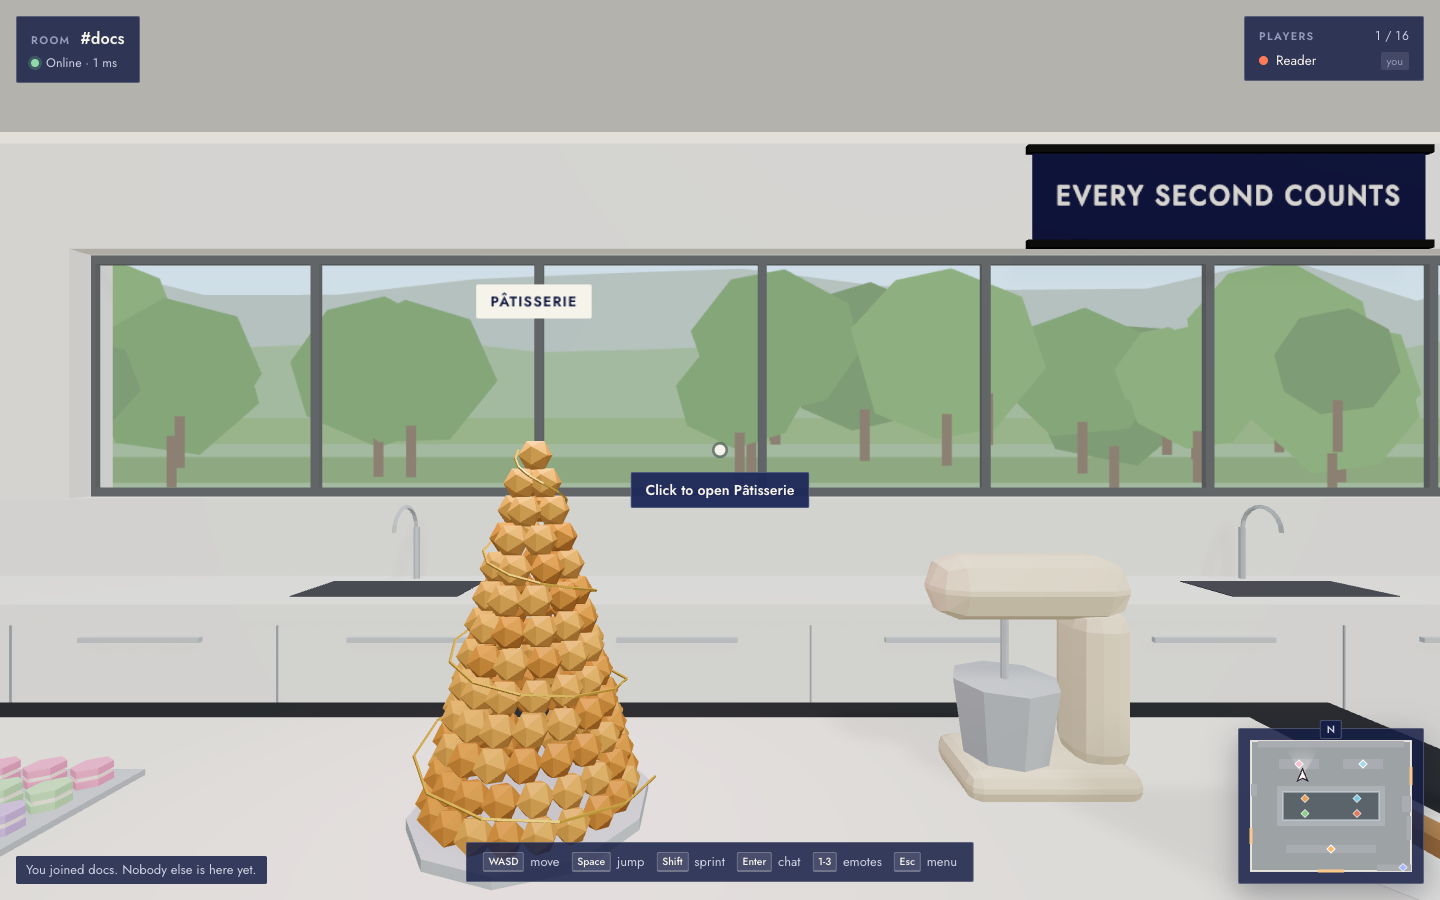
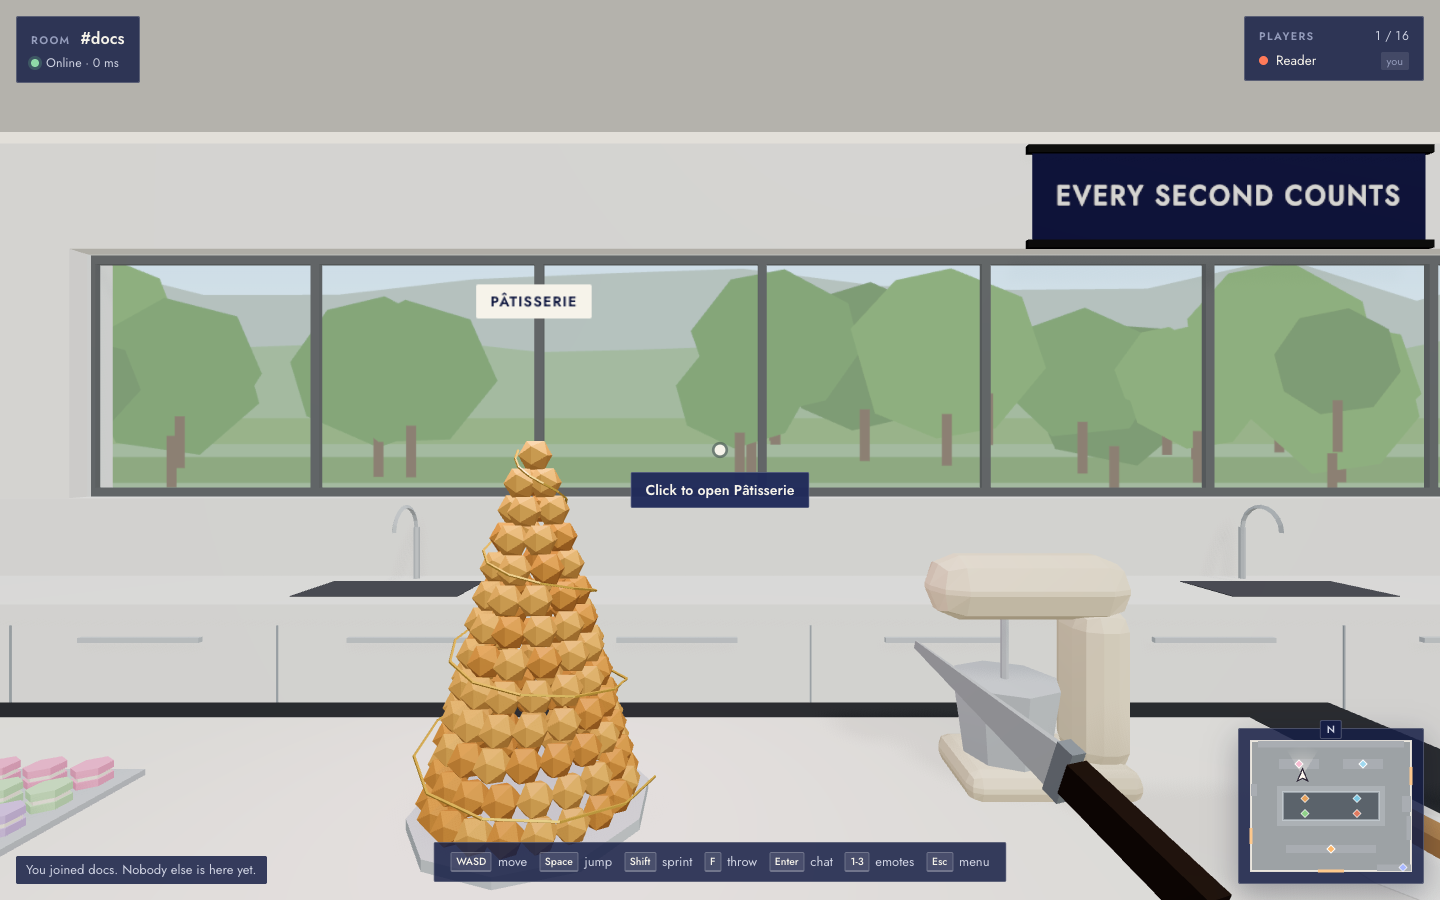
Add a knife screenshot: knives in the wall and a cook knocked out

Changed region(s): [[0.6562, 0.7467, 0.875, 1.0], [0.2812, 0.9333, 0.7188, 0.9956], [0.625, 0.7156, 0.6562, 0.7467]]

diff --git a/scripts/screenshots.ts b/scripts/screenshots.ts
@@ -50,6 +50,23 @@ async function enter(page: Page, name: string, room = ''): Promise<void> {
   await page.waitForFunction(() => window.__world?.mode === 'playing', null, { timeout: 30_000 });
 }
 
+/** Drag the view to a yaw and pitch, the way a visitor without pointer lock looks around. */
+async function turnTo(page: Page, yaw: number, pitch: number): Promise<void> {
+  for (let i = 0; i < 40; i++) {
+    const look = await page.evaluate(() => window.__world!.look);
+    const dYaw = look.yaw - yaw;
+    const dPitch = pitch - look.pitch;
+    if (Math.abs(dYaw) < 0.01 && Math.abs(dPitch) < 0.01) return;
+    const clamp = (v: number): number => Math.max(-200, Math.min(200, v * 250));
+    // Out and back, so even a tiny correction is a drag and never a click on a station.
+    await page.mouse.move(720, 450);
+    await page.mouse.down();
+    await page.mouse.move(720, 390, { steps: 2 });
+    await page.mouse.move(720 + clamp(dYaw), 450 - clamp(dPitch), { steps: 4 });
+    await page.mouse.up();
+  }
+}
+
 /** Hold a key until the player reaches a spot, like a person walking there. */
 async function walkUntil(
   page: Page,
@@ -122,6 +139,30 @@ async function main(): Promise<void> {
     await reader.getByRole('dialog', { name: 'Pâtisserie' }).waitFor();
     await reader.waitForTimeout(600);
     await reader.screenshot({ path: `${outDir}/info-panel.png` });
+
+    // Knives in a private room: two stuck in the wall past a cook, then one that knocks them out.
+    const thrower = await context.newPage();
+    await enter(thrower, 'Thrower', 'docs-knives');
+    const target = await context.newPage();
+    await enter(target, 'Target', 'docs-knives');
+    await thrower.waitForTimeout(1000);
+    const from = await thrower.evaluate(() => window.__world!.player);
+    const to = await target.evaluate(() => window.__world!.player);
+    const toward = Math.atan2(-(to.x - from.x), -(to.z - from.z));
+    for (const [yaw, pitch] of [
+      [toward + 0.35, 0.05],
+      [toward - 0.3, 0.1],
+    ] as const) {
+      await turnTo(thrower, yaw, pitch);
+      await thrower.keyboard.press('KeyF');
+      await thrower.waitForTimeout(900);
+    }
+    await turnTo(thrower, toward, -0.04);
+    await thrower.mouse.move(1300, 120);
+    await thrower.keyboard.press('KeyF');
+    await thrower.waitForFunction(() => window.__world!.remotePlayers.length > 0);
+    await thrower.waitForTimeout(900);
+    await thrower.screenshot({ path: `${outDir}/knives.png` });
 
     await page.goto(`${clientUrl}/portfolio.html`);
     await page.screenshot({ path: `${outDir}/portfolio.png`, fullPage: true });
